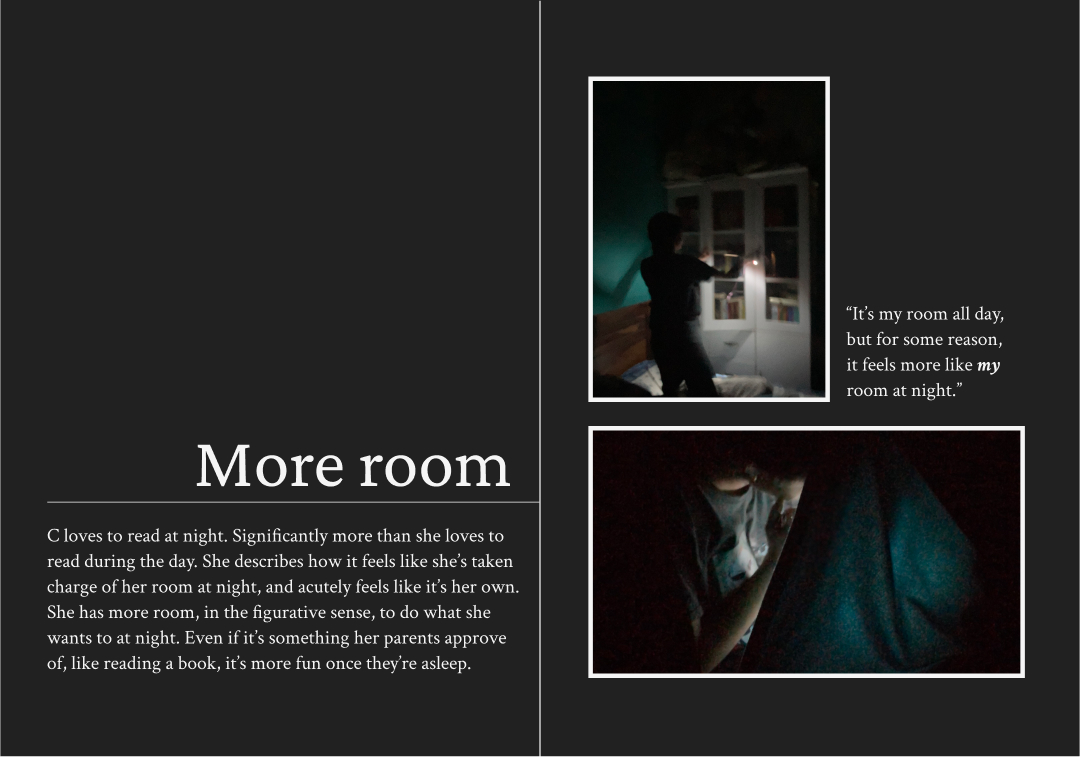
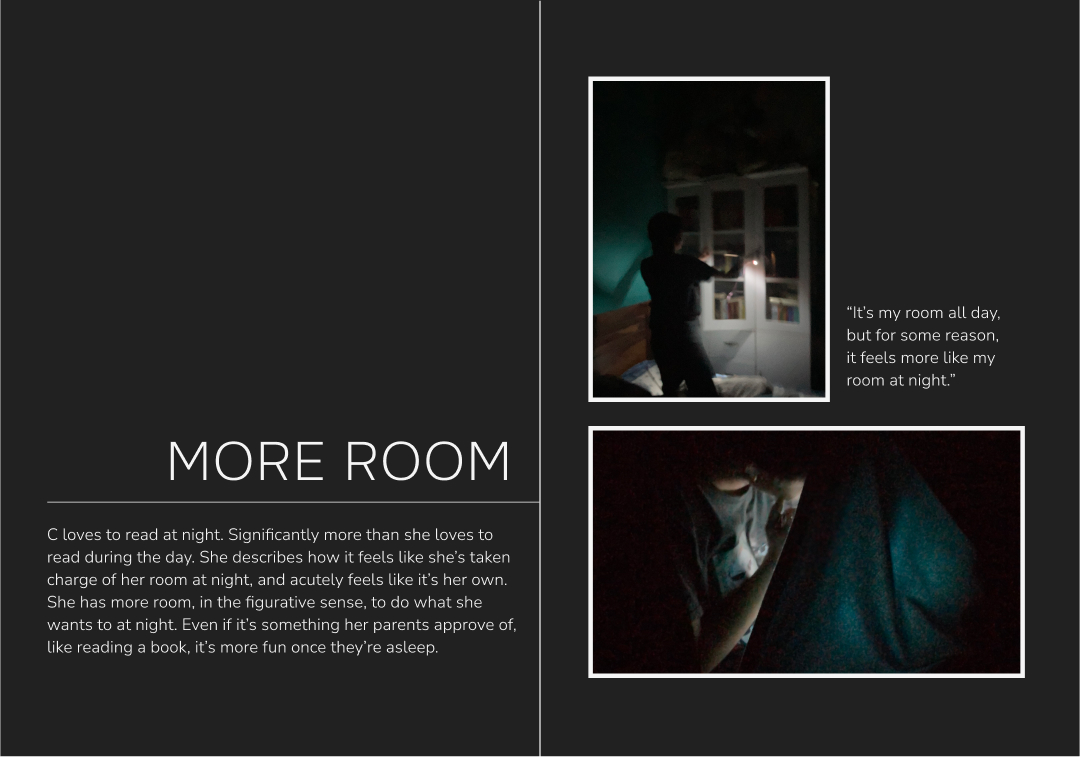
space des project

Changed region(s): [[0.0306, 0.6988, 0.4889, 0.8811], [0.7639, 0.395, 0.9472, 0.5469], [0.1528, 0.5773, 0.4889, 0.638]]

diff --git a/_projects/1_project.md b/_projects/1_project.md
@@ -11,7 +11,8 @@ background-color: \#000000 !important
 ---
 <style>
     body {
-    background-color: lightblue;
+    background-color: #212121;
+    text: #FFFFFF;
   }
 </style>
 <div>
@@ -31,23 +32,27 @@ Completed as part of the Space Design course in IIT Hyderabad.
  
 
  
-        {% include figure.liquid loading="eager" path="assets/img/A4 - 3.jpg" class="img-fluid rounded" %}
-  
-
-
         {% include figure.liquid loading="eager" path="assets/img/A4 - 4.jpg" class="img-fluid rounded" %}
   
 
+
+        {% include figure.liquid loading="eager" path="assets/img/A4 - 7.jpg" class="img-fluid rounded" %}
+  
+
+    
+        {% include figure.liquid loading="eager" path="assets/img/A4 - 18.jpg" class="img-fluid rounded" %}
+
+
+    
+        {% include figure.liquid loading="eager" path="assets/img/A4 - 3.jpg" class="img-fluid rounded" %}
+
+
     
         {% include figure.liquid loading="eager" path="assets/img/A4 - 5.jpg" class="img-fluid rounded" %}
-
+    
 
     
         {% include figure.liquid loading="eager" path="assets/img/A4 - 6.jpg" class="img-fluid rounded" %}
-
-
-    
-        {% include figure.liquid loading="eager" path="assets/img/A4 - 7.jpg" class="img-fluid rounded" %}
     
 
     
@@ -87,15 +92,11 @@ Completed as part of the Space Design course in IIT Hyderabad.
     
 
     
-        {% include figure.liquid loading="eager" path="assets/img/A4 - 17.jpg" class="img-fluid rounded" %}
-    
-
-    
-        {% include figure.liquid loading="eager" path="assets/img/A4 - 18.jpg" class="img-fluid rounded" %}
-    
-
-    
         {% include figure.liquid loading="eager" path="assets/img/A4 - 19.jpg" class="img-fluid rounded" %}
+    
+
+    
+        {% include figure.liquid loading="eager" path="assets/img/A4 - 17.jpg" class="img-fluid rounded" %}
     
 
     
@@ -103,7 +104,7 @@ Completed as part of the Space Design course in IIT Hyderabad.
     
 
     
-        {% include figure.liquid loading="eager" path="assets/img/A4 - 21.jpg" class="img-fluid rounded" %}
+
     
 
 
